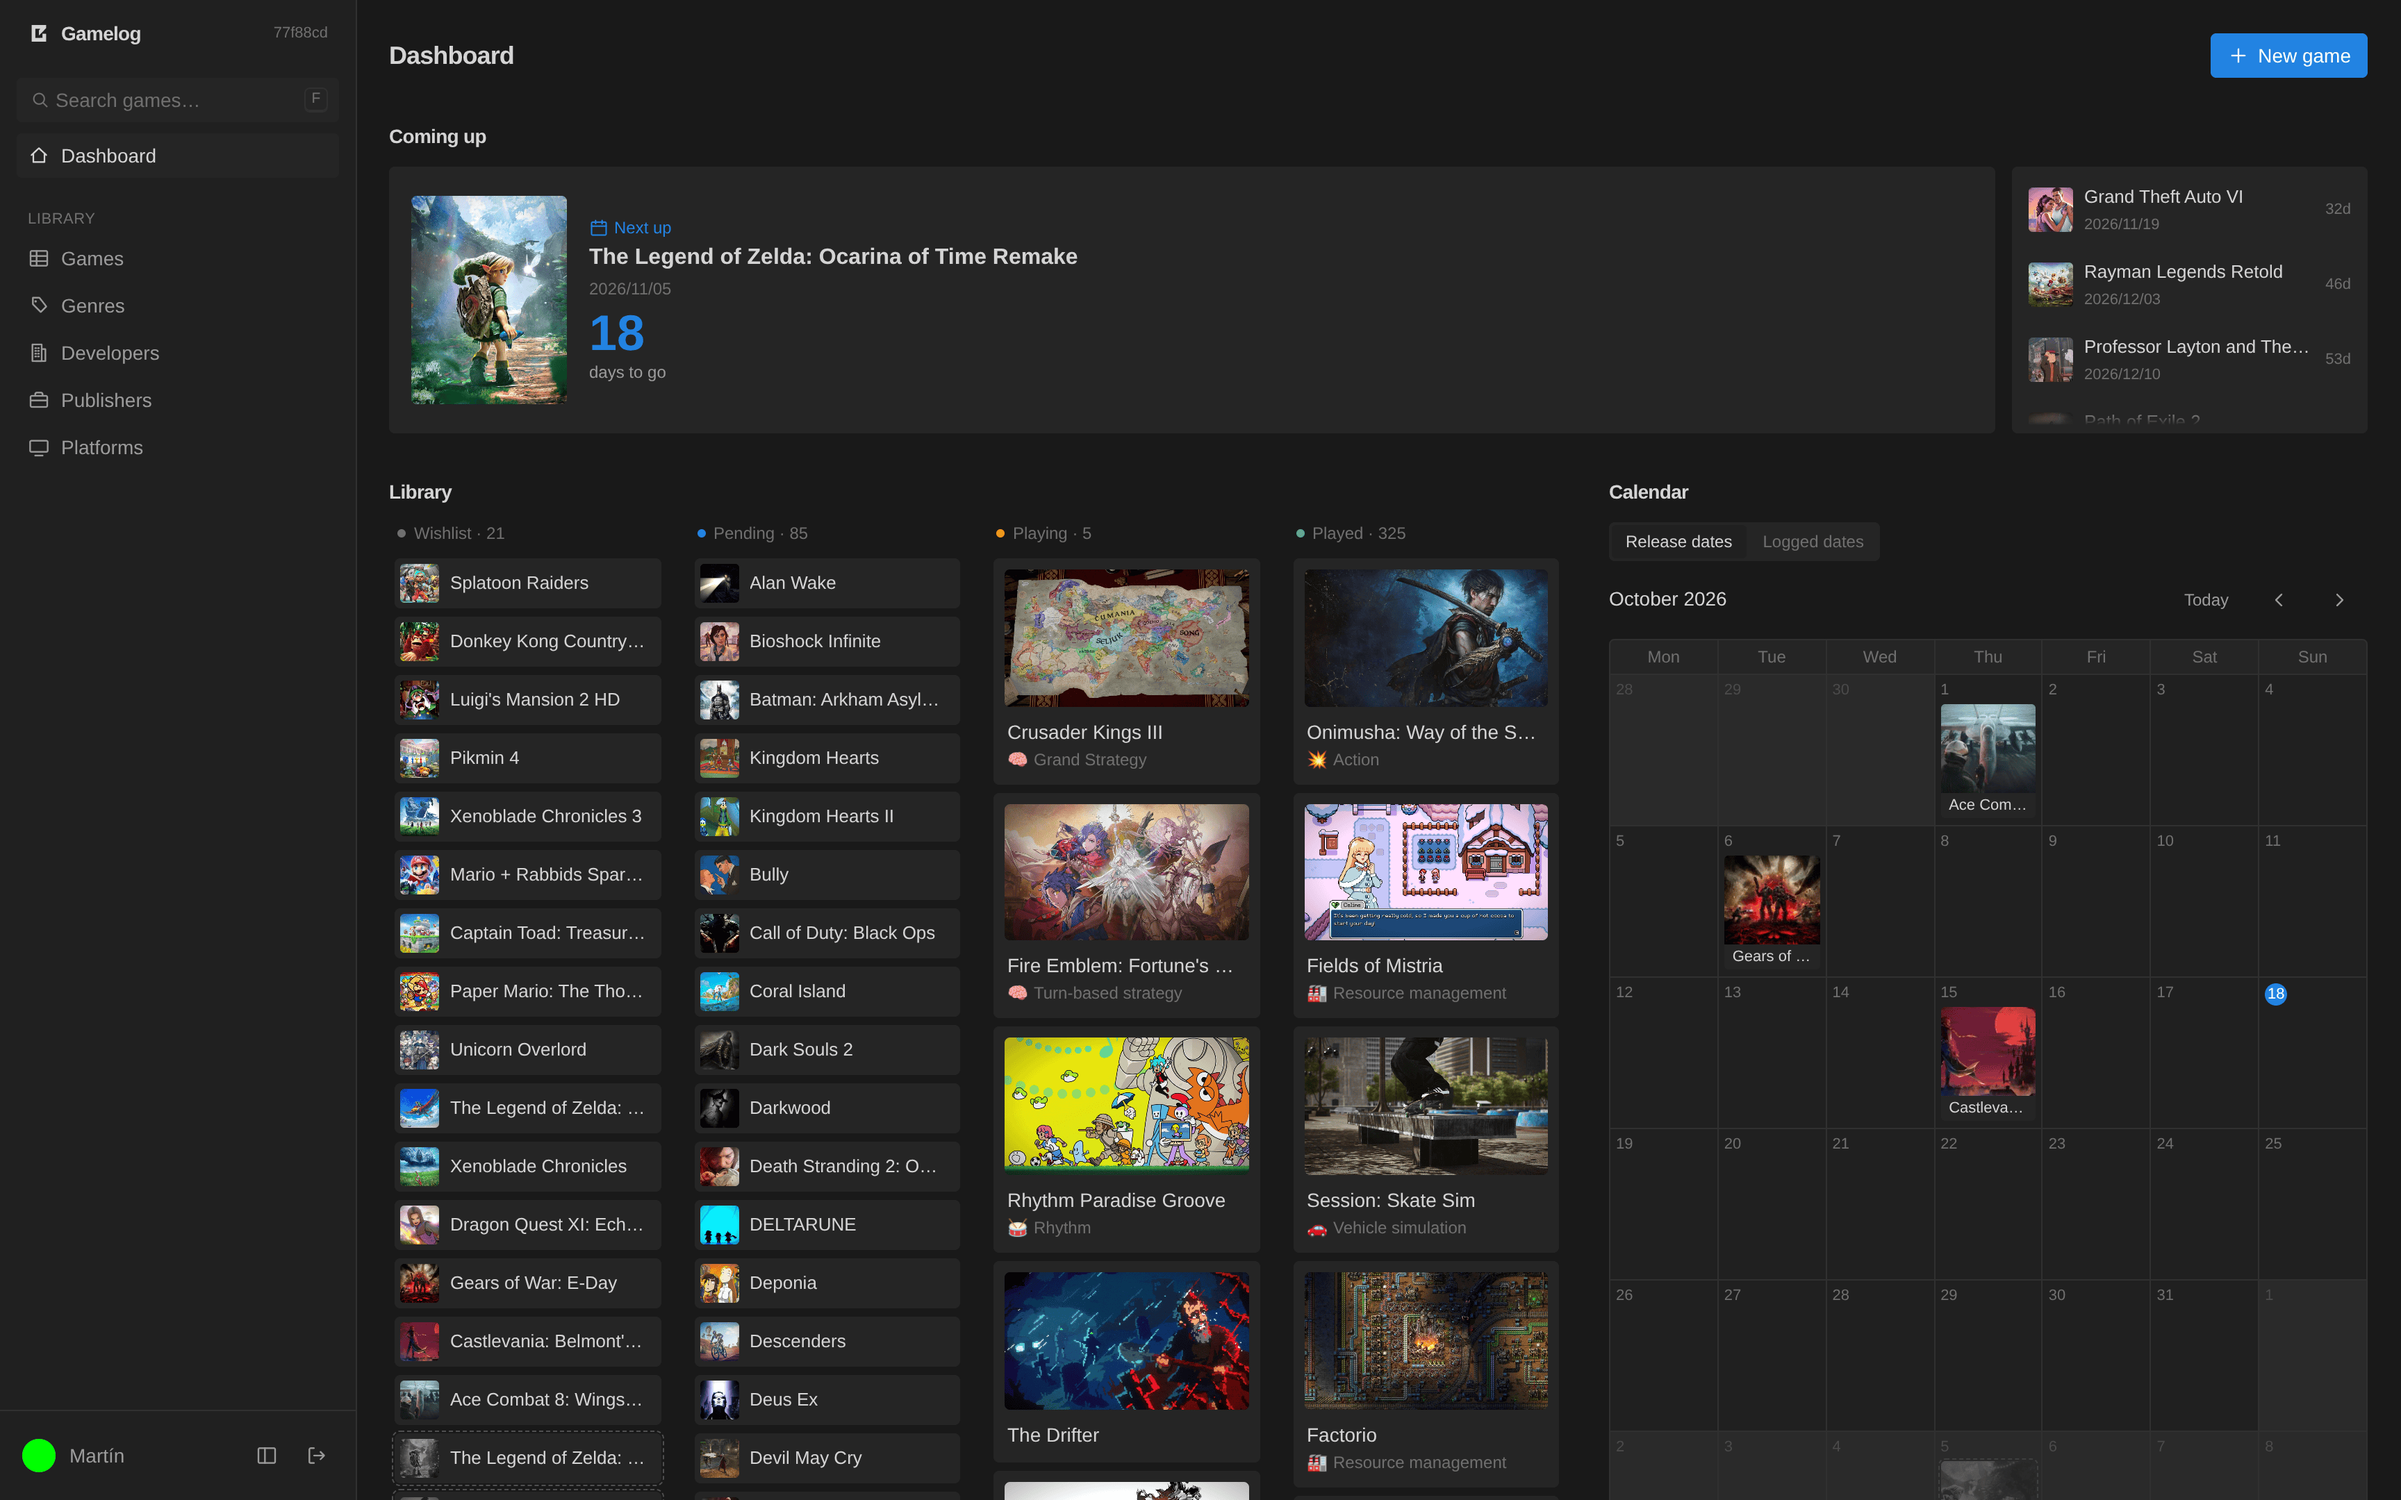
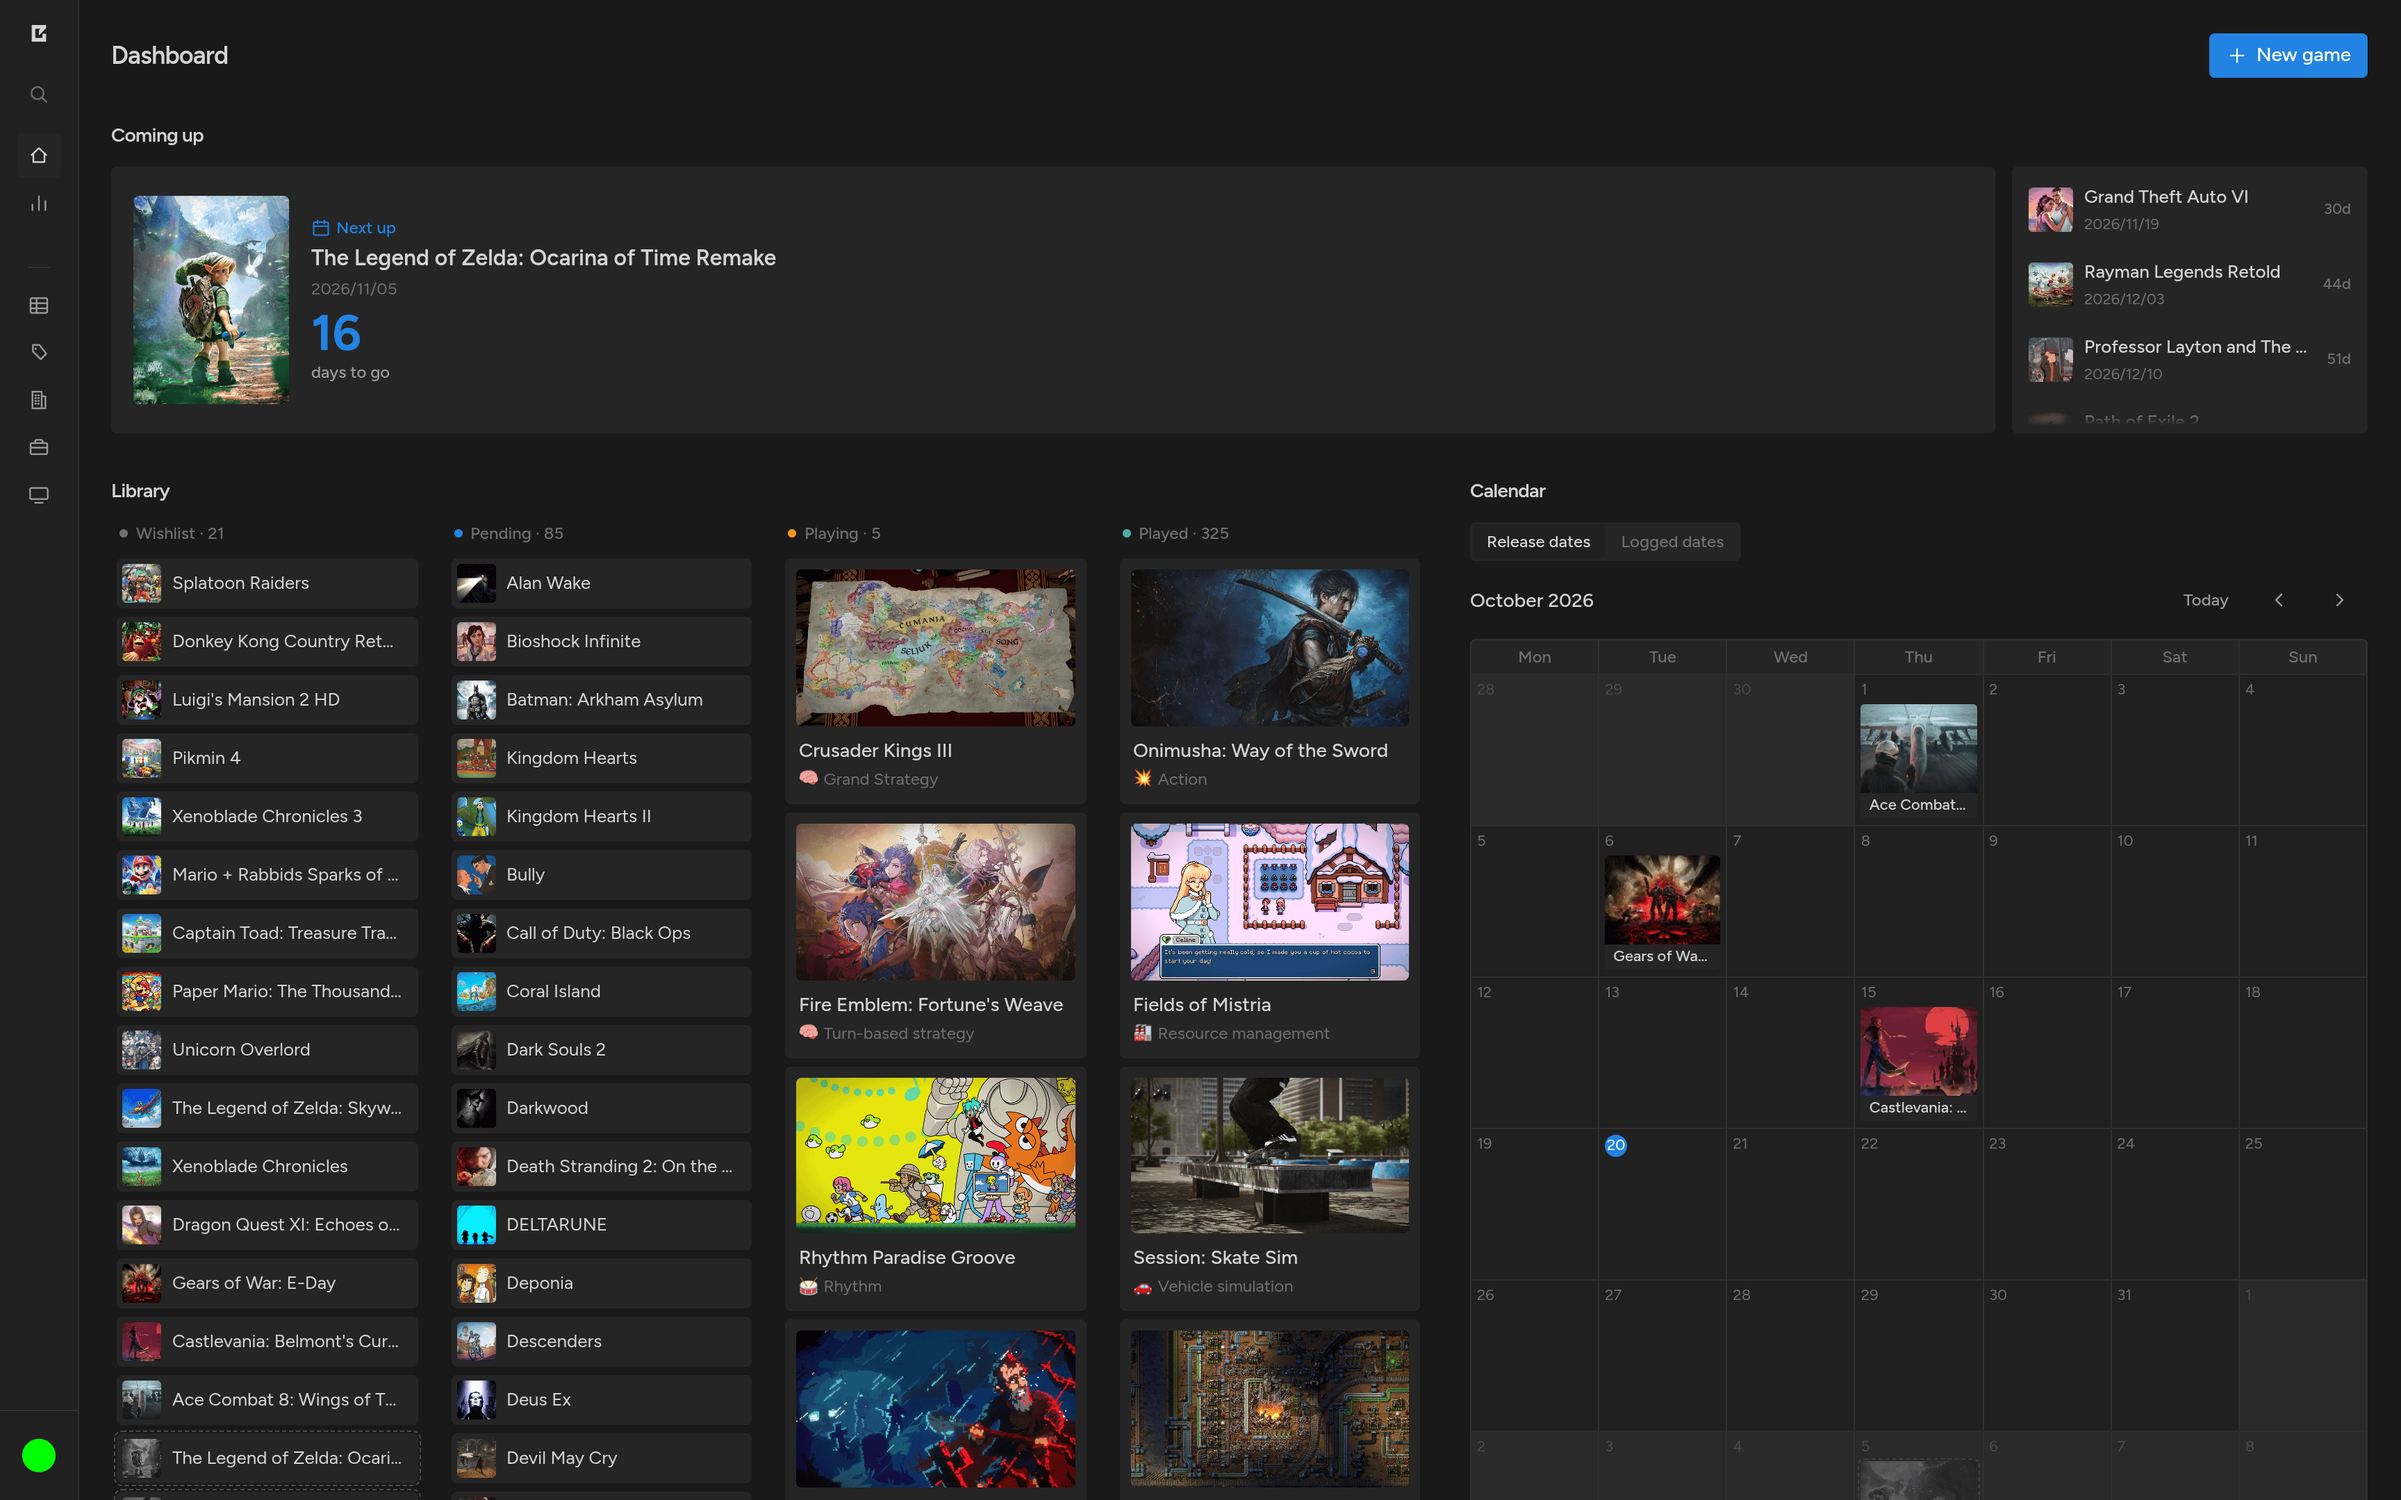
docs: refresh the screenshots, in light and dark (#130)
## Summary

New screenshots of every screen, now in both themes, plus one of the
Stats page:

- **Theme:** the README's hero and every image on the screenshots page
are shown in the theme the reader's browser prefers, through `<picture>`
and `prefers-color-scheme`.
- **All screenshots:** a new page shows every screenshot in both themes
side by side.
- **Size:** all of them are compressed with `pngquant` (about 11 MB in
all).
- **Hero:** `scripts/make-hero.sh` builds the hero from a desktop
screenshot and a phone mockup, the way it was made before, and both
heroes in the repository come from it. `docs/development.md` explains
how to use it.

diff --git a/docs/screenshots.md b/docs/screenshots.md
@@ -1,6 +1,6 @@
 # Screenshots
 
-A tour of the main screens, on desktop and on a phone. All of them use the dark theme.
+A tour of the main screens, on desktop and on a phone, in the theme your browser prefers, light or dark. Every one of them is also shown in both themes side by side on [All screenshots](screenshots-all.md).
 
 ## Desktop
 
@@ -8,46 +8,79 @@ A tour of the main screens, on desktop and on a phone. All of them use the dark 
 
 The home page. "Coming up" counts down to the next game due out and lists the ones after it. Below, the library is laid out as a board with one column per status (Wishlist, Pending, Playing and Played), next to a calendar of release dates.
 
-![The dashboard, with upcoming releases, the library board and the calendar](screenshots/desktop/dashboard-dark.png)
+<picture>
+  <source media="(prefers-color-scheme: dark)" srcset="screenshots/desktop/dashboard-dark.png">
+  <img src="screenshots/desktop/dashboard-light.png" alt="The dashboard, with upcoming releases, the library board and the calendar">
+</picture>
+
+### Stats
+
+What has been played, year by year, with the average score underneath, a breakdown by platform, genre, developer or publisher, the spread of scores and how long after release games were played. Here the Action RPG genre is picked out in every chart.
+
+<picture>
+  <source media="(prefers-color-scheme: dark)" srcset="screenshots/desktop/stats-dark.png">
+  <img src="screenshots/desktop/stats-light.png" alt="The stats page, with the Action RPG genre picked out in the chart of games played per year">
+</picture>
 
 ### Games as a cover grid
 
 The games list shown as covers, here filtered by genre, with the score and platform under each one. The footer sums up the filtered games: how many there are, their average score and the span of their release and logged dates.
 
-![The games list as a cover grid, filtered by the Action RPG genre](screenshots/desktop/games-grid-dark.png)
+<picture>
+  <source media="(prefers-color-scheme: dark)" srcset="screenshots/desktop/games-grid-dark.png">
+  <img src="screenshots/desktop/games-grid-light.png" alt="The games list as a cover grid, filtered by the Action RPG genre">
+</picture>
 
 ### Games as a table
 
 The same list as a table, here filtered by platform and sorted by score, with the status, genres, developers, publisher and both dates of each game.
 
-![The games list as a table, filtered by the Switch platform and sorted by score](screenshots/desktop/games-table-dark.png)
+<picture>
+  <source media="(prefers-color-scheme: dark)" srcset="screenshots/desktop/games-table-dark.png">
+  <img src="screenshots/desktop/games-table-light.png" alt="The games list as a table, filtered by the Switch platform and sorted by score">
+</picture>
 
 ### Editing a game
 
-Opening a game slides in a panel over the current page, with its cover, status, score, platform, tagline, dates, genres, developers and publishers. It can also be opened as a full page.
+Opening a game slides in a panel over the current page, with its cover, status, score, platform, tagline, dates, genres, developers and publishers, and an Identify button that fills them in from IGDB. It can also be opened as a full page.
 
-![The edit panel for a game, open over the dashboard](screenshots/desktop/edit-game-dark.png)
+<picture>
+  <source media="(prefers-color-scheme: dark)" srcset="screenshots/desktop/edit-game-dark.png">
+  <img src="screenshots/desktop/edit-game-light.png" alt="The edit panel for a game, open over the dashboard">
+</picture>
 
 ### Genres
 
 Genres, developers, publishers and platforms each have their own page, sorted by name or by how many games use them, where they can be added, renamed and deleted.
 
-![The genres page, sorted by number of games](screenshots/desktop/genres-dark.png)
+<picture>
+  <source media="(prefers-color-scheme: dark)" srcset="screenshots/desktop/genres-dark.png">
+  <img src="screenshots/desktop/genres-light.png" alt="The genres page, sorted by number of games">
+</picture>
 
 ## Mobile
 
 <table>
   <tr>
     <td width="33%" valign="top">
-      <img src="screenshots/mobile-mockups/games-grid-dark.png" alt="The games list as a cover grid on a phone">
+      <picture>
+        <source media="(prefers-color-scheme: dark)" srcset="screenshots/mobile/games-grid-dark.png">
+        <img src="screenshots/mobile/games-grid-light.png" alt="The games list as a cover grid on a phone">
+      </picture>
       <p><b>Games.</b> The sidebar folds into a menu and the cover grid fits three games per row.</p>
     </td>
     <td width="33%" valign="top">
-      <img src="screenshots/mobile-mockups/edit-game-dark.png" alt="Editing a game on a phone">
+      <picture>
+        <source media="(prefers-color-scheme: dark)" srcset="screenshots/mobile/edit-game-dark.png">
+        <img src="screenshots/mobile/edit-game-light.png" alt="Editing a game on a phone">
+      </picture>
       <p><b>Editing a game.</b> The edit panel takes up the whole screen.</p>
     </td>
     <td width="33%" valign="top">
-      <img src="screenshots/mobile-mockups/account-dark.png" alt="The account page on a phone">
+      <picture>
+        <source media="(prefers-color-scheme: dark)" srcset="screenshots/mobile/account-dark.png">
+        <img src="screenshots/mobile/account-light.png" alt="The account page on a phone">
+      </picture>
       <p><b>Account.</b> Profile, theme, date format, default views, password and backups.</p>
     </td>
   </tr>

diff --git a/docs/screenshots-all.md b/docs/screenshots-all.md
@@ -1,0 +1,92 @@
+# All screenshots
+
+Every screenshot in both themes, light on the left and dark on the right, whatever your browser's own. The [screenshots page](screenshots.md) describes each screen and shows it in the theme your browser prefers.
+
+## Desktop
+
+### Dashboard
+
+<table>
+  <tr>
+    <td width="50%"><img src="screenshots/desktop/dashboard-light.png" alt="Dashboard, light theme"></td>
+    <td width="50%"><img src="screenshots/desktop/dashboard-dark.png" alt="Dashboard, dark theme"></td>
+  </tr>
+</table>
+
+### Stats
+
+<table>
+  <tr>
+    <td width="50%"><img src="screenshots/desktop/stats-light.png" alt="Stats, light theme"></td>
+    <td width="50%"><img src="screenshots/desktop/stats-dark.png" alt="Stats, dark theme"></td>
+  </tr>
+</table>
+
+### Games as a cover grid
+
+<table>
+  <tr>
+    <td width="50%"><img src="screenshots/desktop/games-grid-light.png" alt="Games as a cover grid, light theme"></td>
+    <td width="50%"><img src="screenshots/desktop/games-grid-dark.png" alt="Games as a cover grid, dark theme"></td>
+  </tr>
+</table>
+
+### Games as a table
+
+<table>
+  <tr>
+    <td width="50%"><img src="screenshots/desktop/games-table-light.png" alt="Games as a table, light theme"></td>
+    <td width="50%"><img src="screenshots/desktop/games-table-dark.png" alt="Games as a table, dark theme"></td>
+  </tr>
+</table>
+
+### Editing a game
+
+<table>
+  <tr>
+    <td width="50%"><img src="screenshots/desktop/edit-game-light.png" alt="Editing a game, light theme"></td>
+    <td width="50%"><img src="screenshots/desktop/edit-game-dark.png" alt="Editing a game, dark theme"></td>
+  </tr>
+</table>
+
+### Genres
+
+<table>
+  <tr>
+    <td width="50%"><img src="screenshots/desktop/genres-light.png" alt="Genres, light theme"></td>
+    <td width="50%"><img src="screenshots/desktop/genres-dark.png" alt="Genres, dark theme"></td>
+  </tr>
+</table>
+
+## Mobile
+
+Light on the top row, dark on the bottom one.
+
+<table>
+  <tr>
+    <th width="33%">Games</th>
+    <th width="33%">Editing a game</th>
+    <th width="33%">Account</th>
+  </tr>
+  <tr>
+    <td><img src="screenshots/mobile/games-grid-light.png" alt="Games on a phone, light theme"></td>
+    <td><img src="screenshots/mobile/edit-game-light.png" alt="Editing a game on a phone, light theme"></td>
+    <td><img src="screenshots/mobile/account-light.png" alt="Account on a phone, light theme"></td>
+  </tr>
+  <tr>
+    <td><img src="screenshots/mobile/games-grid-dark.png" alt="Games on a phone, dark theme"></td>
+    <td><img src="screenshots/mobile/edit-game-dark.png" alt="Editing a game on a phone, dark theme"></td>
+    <td><img src="screenshots/mobile/account-dark.png" alt="Account on a phone, dark theme"></td>
+  </tr>
+</table>
+
+## Hero
+
+The image at the top of the README, built with `scripts/make-hero.sh`.
+
+<table>
+  <tr>
+    <td width="50%"><img src="screenshots/hero-light.png" alt="The README hero, light theme"></td>
+    <td width="50%"><img src="screenshots/hero-dark.png" alt="The README hero, dark theme"></td>
+  </tr>
+</table>

diff --git a/docs/development.md b/docs/development.md
@@ -139,6 +139,15 @@ scripts/format-docs.sh --check  # only reports, as CI does
 
 It needs nothing but Node: the script runs a pinned Prettier version through `npx`, with the rules in [`.prettierrc.json`](../.prettierrc.json). Editors that format with Prettier, such as Zed or VS Code with its extension, pick up the same file.
 
+Screenshots live in `docs/screenshots/`, a light and a dark version of each, compressed with `pngquant --quality 75-92`. The README's hero image is built from a desktop screenshot and a phone mockup:
+
+```sh
+scripts/make-hero.sh docs/screenshots/desktop/dashboard-dark.png \
+  docs/screenshots/mobile-mockups/games-grid-dark.png docs/screenshots/hero-dark.png
+```
+
+It needs ImageMagick, and compresses the result with pngquant, through `nix shell` when it is not installed.
+
 ## Building the image
 
 ```sh

diff --git a/README.md b/README.md
@@ -7,10 +7,13 @@ Gamelog is a personal project. I built it to track my own games, and it is tailo
 I open sourced it in case it is useful to someone else too.
 
 <p align="center">
-  <img src="docs/screenshots/hero-dark.png" alt="The Gamelog dashboard on a desktop browser, with the games grid open on a phone next to it">
+  <picture>
+    <source media="(prefers-color-scheme: dark)" srcset="docs/screenshots/hero-dark.png">
+    <img src="docs/screenshots/hero-light.png" alt="The Gamelog dashboard on a desktop browser, with the games grid open on a phone next to it">
+  </picture>
 </p>
 
-Here are [more screenshots](docs/screenshots.md), in desktop and phone formats.
+Here are [more screenshots](docs/screenshots.md), in desktop and phone formats, light and dark.
 
 ## Features
 

diff --git a/docs/README.md b/docs/README.md
@@ -1,6 +1,7 @@
 # Documentation
 
 - [Screenshots](screenshots.md): the main screens on desktop and on a phone.
+- [All screenshots](screenshots-all.md): every screenshot in both themes, side by side.
 - [Self-hosting](self-hosting.md): deploying the image, reverse proxies, configuration, accounts and backups.
 - [Import and export](import-export.md): getting your library in and out of Gamelog.
 - [API](api.md): the REST API the frontend is built on.
